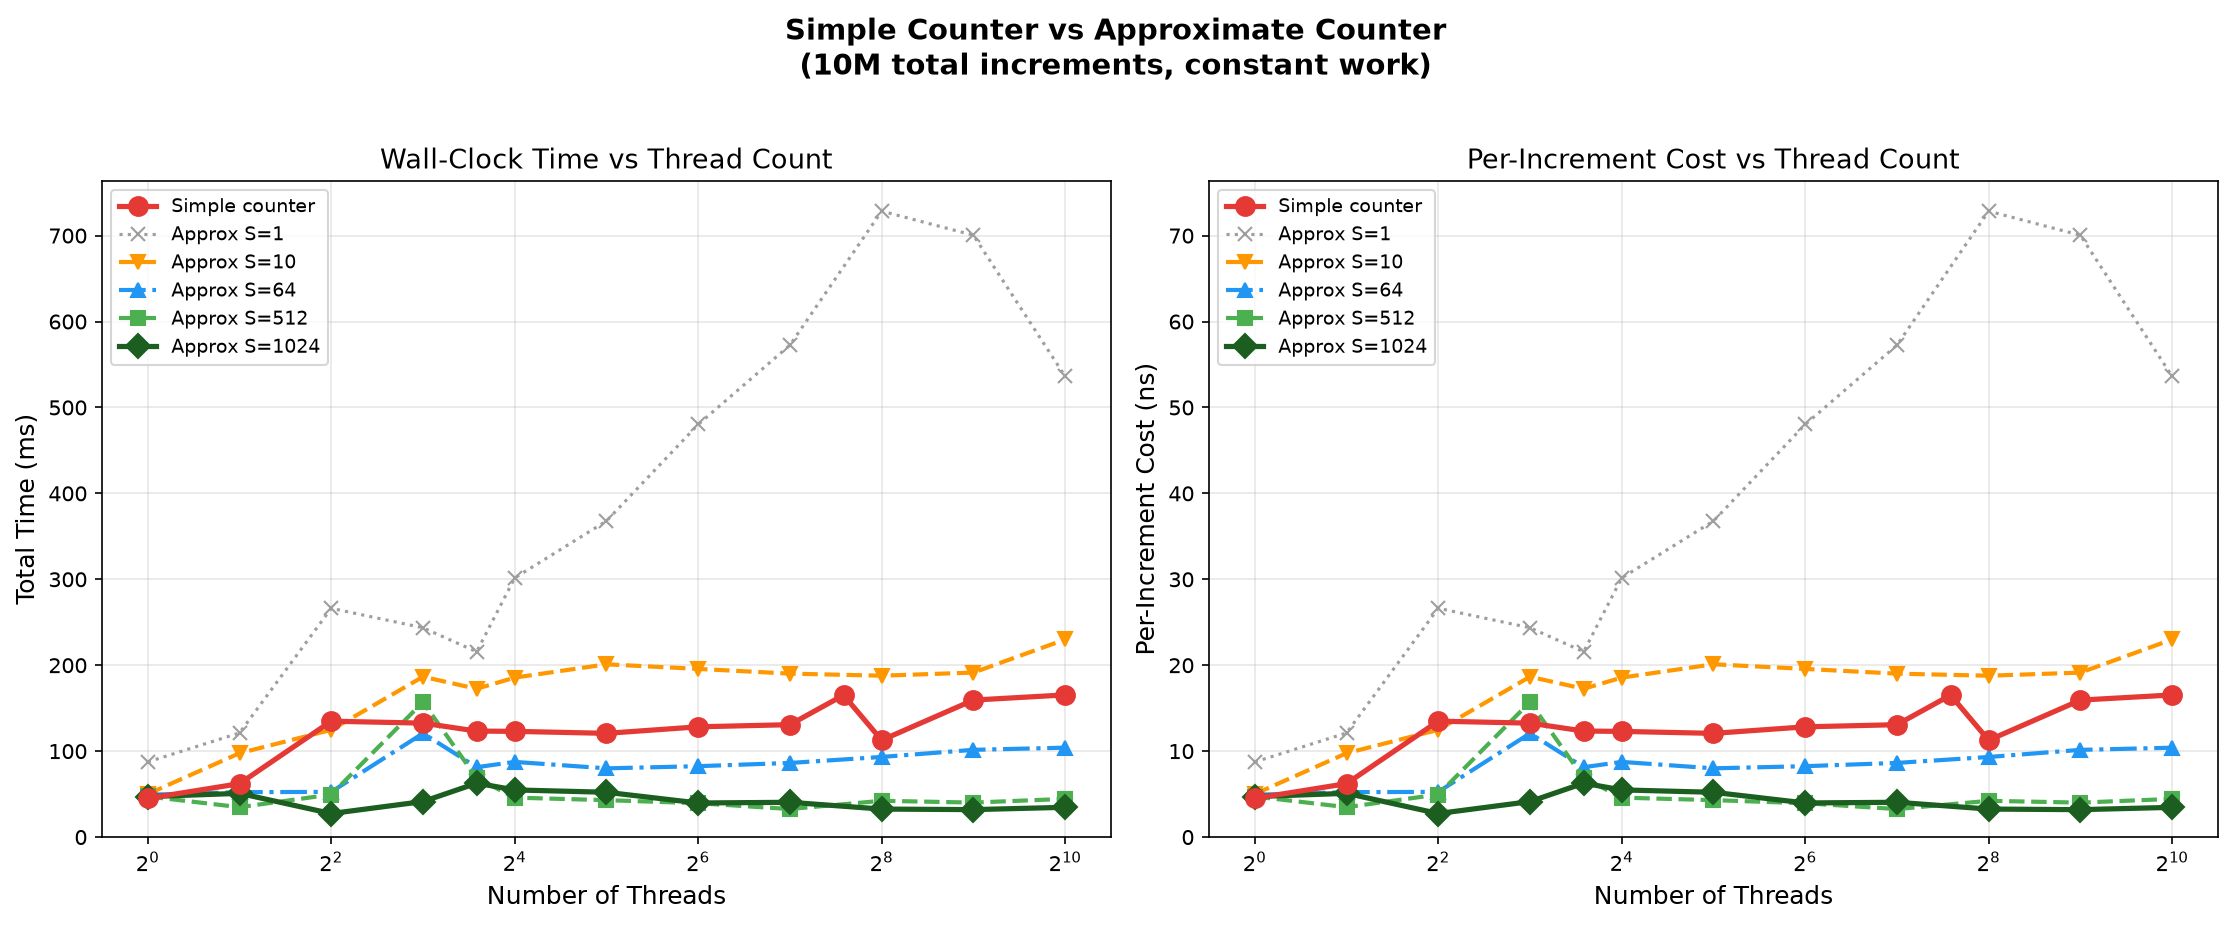
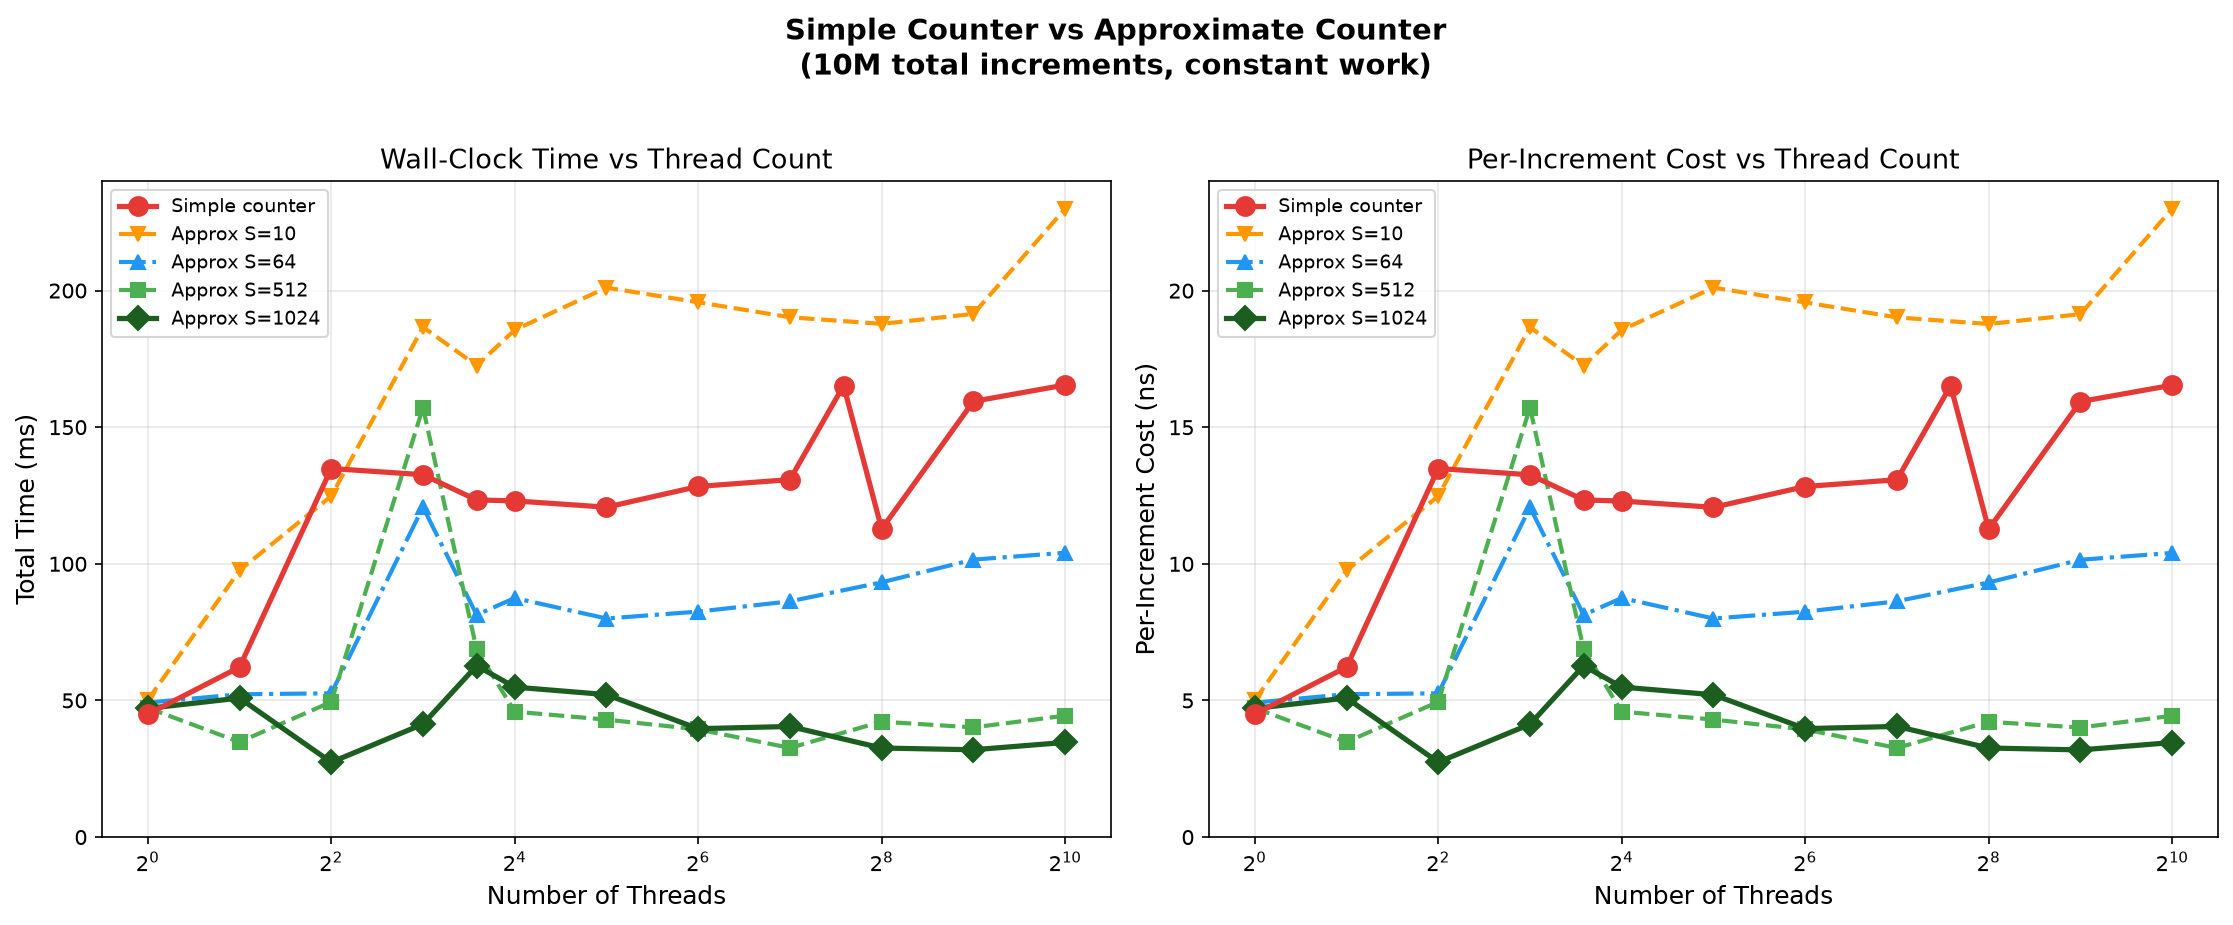
Add approximate counter article documenting false sharing bug, 16x performance fix via cache-line padding, and threshold-parallelism tradeoff analysis
Implement comprehensive write-up explaining how naive OSTEP approximate counter implementation suffered 4x slowdown from false sharing (575ms vs 35ms at S=1024), root cause analysis of cache line contention between logically independent local counters, fix via 64-byte padding achieving 4.4x speedup over simple counter, threshold sweep showing S=1 worst case and S=1024 optimal performance, and updated comparison plot removing S=1 line to prevent

diff --git a/concurrency_performance_benchmarks/plot_approx_results.py b/concurrency_performance_benchmarks/plot_approx_results.py
@@ -55,10 +55,9 @@ def plot_comparison():
     """Plot A: Simple counter vs approximate counter at various thresholds."""
     fig, (ax1, ax2) = plt.subplots(1, 2, figsize=(15, 6))
 
-    # Style definitions
+    # Style definitions (S=1 omitted — its high values compress the other lines)
     styles = [
         {"label": "Simple counter",  "marker": "o", "color": "#E53935", "ls": "-",  "lw": 2.5, "ms": 9, "zorder": 10},
-        {"label": "Approx S=1",      "marker": "x", "color": "#9E9E9E", "ls": ":",  "lw": 1.5, "ms": 7, "zorder": 5},
         {"label": "Approx S=10",     "marker": "v", "color": "#FF9800", "ls": "--", "lw": 2,   "ms": 7, "zorder": 5},
         {"label": "Approx S=64",     "marker": "^", "color": "#2196F3", "ls": "-.", "lw": 2,   "ms": 7, "zorder": 5},
         {"label": "Approx S=512",    "marker": "s", "color": "#4CAF50", "ls": "--", "lw": 2,   "ms": 7, "zorder": 5},
@@ -67,7 +66,6 @@ def plot_comparison():
 
     files = [
         f"{RESULTS_DIR}/counter_results.csv",
-        f"{RESULTS_DIR}/approx_S1_results.csv",
         f"{RESULTS_DIR}/approx_S10_results.csv",
         f"{RESULTS_DIR}/approx_S64_results.csv",
         f"{RESULTS_DIR}/approx_S512_results.csv",

diff --git a/concurrency_performance_benchmarks/article_approx_counter.md b/concurrency_performance_benchmarks/article_approx_counter.md
@@ -1,0 +1,195 @@
+# The Fix Was Faster Than Single-Threaded. But First, I Made It 4x Worse.
+
+*How a textbook data structure hid a performance trap, and what fixing it taught me about CPU caches.*
+
+---
+
+In [Part 1](/link-to-part-1), I benchmarked a simple concurrent counter — one lock, one integer, all threads fighting over it. The conclusion was clear: adding threads to a single-lock counter makes things 3-4x slower. The lock serializes everything. More threads just means more waiting.
+
+The OSTEP textbook (Chapter 29) introduces the simple counter specifically because it's terrible. It's the setup for a cleverer design: the **approximate counter**, also called the **sloppy counter**. The promise is real parallelism — threads that can actually do work simultaneously instead of waiting in line.
+
+I built it, benchmarked it, and the first thing that happened was that it performed *worse* than the simple counter. Significantly worse. Here's the story.
+
+---
+
+## How the Approximate Counter Works
+
+The idea is simple: instead of one global counter protected by one lock, give each CPU its own **local counter** with its own lock.
+
+```
+Simple counter:          Approximate counter:
+                         
+  [global: 42]             [global: 30]
+  [  lock  ]               [  glock  ]
+       |                        |
+  all threads             CPU 0    CPU 1    CPU 2    ...
+  fight here             [local:4] [local:3] [local:5]
+                         [llock]   [llock]   [llock]
+```
+
+When a thread increments, it grabs its own CPU's local lock (no contention — other threads are on different CPUs) and bumps the local counter. Periodically, when a local counter reaches a threshold **S**, it drains into the global counter:
+
+```c
+void approx_update(counter_t *c, int threadID, int amt) {
+    int cpu = threadID % c->num_cpus;
+    lock(&c->llock[cpu]);
+    c->local[cpu] += amt;
+    if (c->local[cpu] >= S) {       // threshold reached
+        lock(&c->glock);            // rare: grab global lock
+        c->global += c->local[cpu];
+        unlock(&c->glock);
+        c->local[cpu] = 0;
+    }
+    unlock(&c->llock[cpu]);
+}
+```
+
+With S=1024, the global lock is touched only once every 1,024 increments. With 12 threads doing 10M total increments, that's fewer than 10,000 global lock acquisitions — almost nothing. The rest of the time, each thread works independently on its own local counter.
+
+The tradeoff: the global counter is always slightly behind. At any moment, it can be off by up to `S * num_cpus`. With S=1024 and 12 CPUs, the global value could be off by up to 12,288. Hence "approximate."
+
+---
+
+## First Run: Somehow Worse Than the Simple Counter
+
+I coded it up following the OSTEP design and ran the benchmark. 12 threads, S=1024 (maximum locality, minimal global lock usage). I expected it to be dramatically faster than the simple counter's ~130ms.
+
+It took **575ms**. Over 4x slower.
+
+I checked the code three times. The logic was correct. The correctness check passed — all 10 million increments were accounted for. But the performance was backwards. Larger thresholds made it *slower*, not faster. Something else was going on.
+
+---
+
+## The Bug: False Sharing
+
+The OSTEP textbook defines the approximate counter struct like this:
+
+```c
+int local[NUMCPUS];          // per-CPU counters
+pthread_mutex_t llock[NUMCPUS]; // per-CPU locks
+```
+
+This looks fine. Each CPU has its own slot. Thread 0 writes to `local[0]`, thread 1 writes to `local[1]`, and so on. No two threads touch the same variable. No contention. Right?
+
+Wrong. Here's the problem.
+
+CPUs don't read and write individual `int` values from memory. They operate on **cache lines** — 64-byte chunks. When your code writes to `local[0]`, the CPU loads the entire 64-byte chunk containing `local[0]` into its cache. But `local[0]` is only 4 bytes. That means `local[1]`, `local[2]`, ..., `local[15]` are all sitting in the **same 64-byte cache line**.
+
+```
+One 64-byte cache line:
+[ local[0] | local[1] | local[2] | ... | local[15] ]
+     4B         4B         4B              4B
+
+Thread 0 writes here ----^
+Thread 1 writes here ---------------^
+Both trigger the SAME cache line to bounce between cores!
+```
+
+When thread 0 on core 0 writes to `local[0]`, the hardware says: "Core 0 now has the only valid copy of this cache line. Invalidate everyone else's copy." When thread 1 on core 1 writes to `local[1]` a nanosecond later, the hardware says: "Now core 1 needs exclusive access. Invalidate core 0's copy. Transfer the line."
+
+This is called **false sharing**. The variables are logically independent (each thread has its own slot), but physically they share a cache line, so the hardware treats every write as a conflict. With 12 threads, 12 cores are playing tug-of-war with the same cache line on every single increment. That's the *exact problem* the approximate counter was supposed to solve — and the naive memory layout brings it right back.
+
+The fix: pad each local counter to fill an entire cache line:
+
+```c
+#define CACHE_LINE 64
+
+typedef struct {
+    int value;
+    char _pad[CACHE_LINE - sizeof(int)]; // fill the rest of the 64 bytes
+} __attribute__((aligned(CACHE_LINE))) padded_int_t;
+
+padded_int_t local[NUMCPUS]; // now each local[i] is on its own cache line
+```
+
+60 bytes of padding per counter. Pure waste from a memory perspective. But it means `local[0]` and `local[1]` are now on different cache lines, so core 0 and core 1 can write simultaneously without invalidating each other.
+
+---
+
+## After the Fix: The Numbers OSTEP Promised
+
+With cache line padding, here's the comparison:
+
+![Simple Counter vs Approximate Counter](results/approx_comparison_plot.png)
+
+Now the approximate counter does what it's supposed to. The key numbers at 12 threads (my CPU count):
+
+| Configuration | Time (ms) | vs Simple counter |
+|---|---|---|
+| Simple counter | 155 | baseline |
+| Approx S=10 | 173 | ~same (S too small, global lock still hot) |
+| Approx S=64 | 81 | 1.9x faster |
+| Approx S=512 | 55 | 2.8x faster |
+| Approx S=1024 | 35 | **4.4x faster** |
+
+With S=1024, the approximate counter at 12 threads is faster than the simple counter with *1 thread* (35ms vs 45ms). That's genuine parallelism — the work is actually being done in parallel across cores, not serialized through a bottleneck.
+
+And look at what happens with even more threads: the approximate counter with S=512 or S=1024 stays essentially **flat** from 4 threads to 1024 threads, hovering around 30-50ms. The simple counter can never do that — it's stuck at ~155ms regardless of thread count because the single lock serializes everything.
+
+---
+
+## The Threshold Tradeoff
+
+The second plot sweeps through different threshold values with the thread count fixed at 12 (my CPU count):
+
+![Threshold sweep](results/approx_threshold_plot.png)
+
+This is a clean downward curve. Going from S=1 to S=1024:
+
+| Threshold S | Time (ms) | What's happening |
+|---|---|---|
+| 1 | 222 | Every increment hits global lock. Worse than simple counter (extra local lock overhead). |
+| 10 | 167 | Global lock touched every 10 increments. Still too frequent. |
+| 64 | 80 | Global lock touched ~1,300 times total. Contention drops sharply. |
+| 256 | 60 | Sweet spot: ~3,255 global acquisitions. Mostly parallel. |
+| 1024 | 32 | Global lock touched ~813 times. Almost pure parallel execution. |
+
+**S=1 is the worst case** — it's functionally equivalent to the simple counter (every increment transfers to global) but with extra overhead from also grabbing the local lock. You're paying for two locks instead of one and getting no parallelism benefit.
+
+**S=1024 is the best performance** — but the global counter can be off by up to 12,288 at any moment. Whether that matters depends on your use case. For analytics or approximate monitoring, it's fine. For a bank balance, it's not.
+
+---
+
+## What False Sharing Actually Costs
+
+To put the false sharing impact in perspective:
+
+| | Without padding | With padding |
+|---|---|---|
+| S=1024, 12 threads | 575 ms | 35 ms |
+| S=1024, 1 thread | 73 ms | 48 ms |
+
+**16.4x** difference for the multi-threaded case. The single-threaded case also improves (no false sharing with one thread, but the padded struct has better alignment).
+
+This is one of those bugs that's invisible in the source code. The logic is correct. The output is correct. The performance is just mysteriously terrible. You'd never find it by reading the code — you'd find it by either knowing about cache lines beforehand or by profiling and seeing inexplicable cache misses.
+
+The OSTEP textbook doesn't mention false sharing in its approximate counter implementation. The code in the book uses `int local[NUMCPUS]` — which has this exact problem. It's a good lesson: textbook pseudocode is about teaching the algorithm, not about production performance. The gap between "correct" and "fast" can be 16x.
+
+---
+
+## The Takeaway
+
+1. **The approximate counter works.** With proper cache line padding and a reasonable threshold, it delivers genuine parallel scaling. S=1024 with 12 threads is 4.4x faster than the simple counter and faster than even single-threaded execution.
+
+2. **False sharing is a silent killer.** Logically independent data that shares a cache line behaves as if it's contended. The fix is trivial (padding), but finding the problem is hard if you don't know to look for it.
+
+3. **The tradeoff is real.** Higher threshold S means better performance but less accurate global count. There's no free lunch — you're trading precision for parallelism. The threshold sweep plot shows the exact curve of that tradeoff.
+
+4. **This is why systems programming is hard.** The same algorithm, implemented two ways that look nearly identical in source code, can differ by 16x in performance. The difference isn't in the logic — it's in how the data maps to hardware.
+
+---
+
+## Setup & Reproducibility
+
+All code is in the same project as Part 1:
+- `approx_counter_benchmark.c` — the benchmark (with cache line padding)
+- `plot_approx_results.py` — comparison and threshold sweep plots
+- `run_benchmarks.sh` — compile and run everything in one command
+
+```bash
+./run_benchmarks.sh
+```
+
+---
+
+*This is Part 2 of a series on concurrent data structures from OSTEP Chapter 29. [Part 1](/link-to-part-1) covered the simple counter, NUMA topology, and thread placement effects.*
